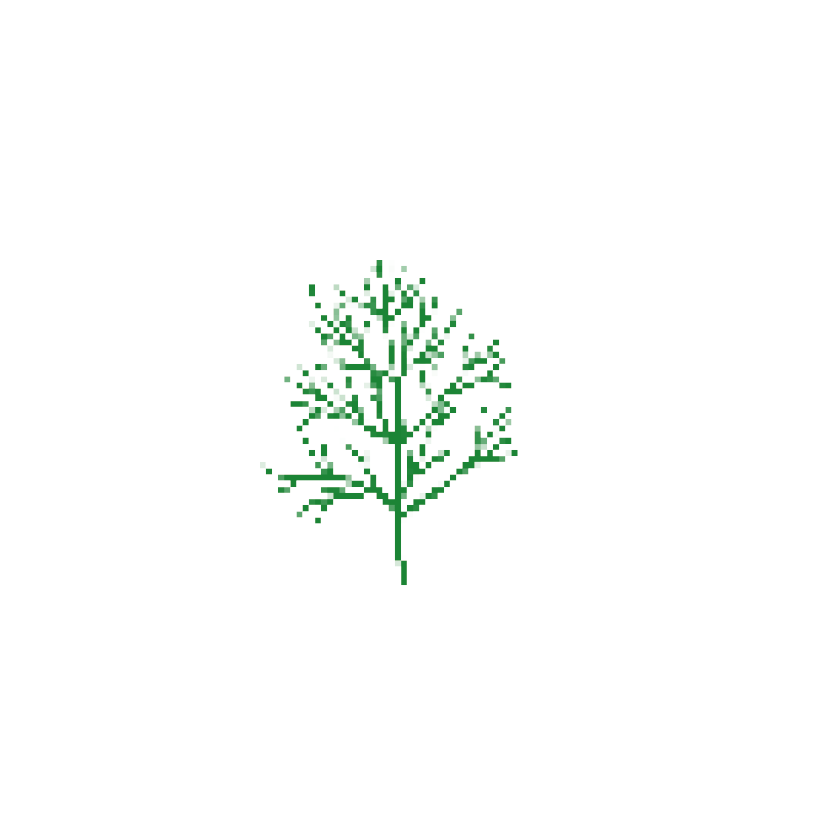
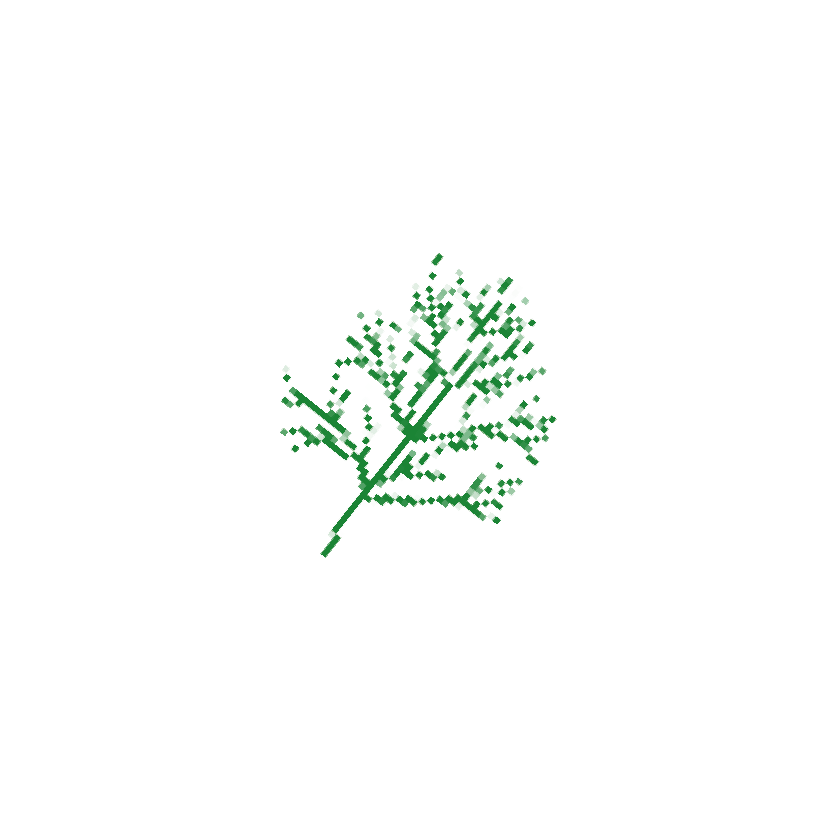
new layers pintxhos

Changed region(s): [[0.3118, 0.3118, 0.6859, 0.717]]

diff --git a/src/config.js b/src/config.js
@@ -5,9 +5,9 @@ const { NETWORK } = require(`${basePath}/constants/network.js`);
 const network = NETWORK.eth;
 
 // General metadata for Ethereum
-const namePrefix = "Edible NFTs Pintxo collection";
-const description = "First 375 Edible NFT Pintxo";
-const baseUri = "ipfs://NewUriToReplace";
+const namePrefix = "Crypto Pintxos Collection";
+const description = "First Edible NFT Pintxos";
+const baseUri = "ipfs://NewUriToReplace"; // "ipfs://NewUriToReplace"
 
 const solanaMetadata = {
   symbol: "YC",
@@ -24,13 +24,53 @@ const solanaMetadata = {
 // If you have selected Solana then the collection starts from 0 automatically
 const layerConfigurations = [
   {
-    growEditionSizeTo: 375,
+    growEditionSizeTo: 80,
+    layersOrder: [
+      { name: "Breads" },
+      { name: "Spreads" },
+      { name: "SaladLeaves" },
+      { name: "Eggs" },
+      { name: "Oil" },
+    ],
+  },
+  {
+    growEditionSizeTo: 160,
+    layersOrder: [
+      { name: "Breads" },
+      { name: "Spreads" },
+      { name: "CookedMeats" },
+      { name: "Pickles" },
+      { name: "Herbs" },
+    ],
+  },
+  {
+    growEditionSizeTo: 240,
     layersOrder: [
       { name: "Breads" },
       { name: "Tomato" },
-      { name: "Cooked vegetables" },
-      { name: "Eggs" },
-      { name: "Herbs" },
+      { name: "Cheeses" },
+      { name: "CookedMeats" },
+      { name: "Pickles" },
+    ],
+  },
+  {
+    growEditionSizeTo: 320,
+    layersOrder: [
+      { name: "Breads" },
+      { name: "Tomato" },
+      { name: "ColdCuts" },
+      { name: "SaladLeaves" },
+      { name: "NutsSeeds" },
+    ],
+  },
+  {
+    growEditionSizeTo: 400,
+    layersOrder: [
+      { name: "Breads" },
+      { name: "Spreads" },
+      { name: "ColdCuts" },
+      { name: "SaladLeaves" },      
+      { name: "Oil" },
     ],
   },
 ];
@@ -40,8 +80,8 @@ const shuffleLayerConfigurations = false;
 const debugLogs = false;
 
 const format = {
-  width: 512,
-  height: 512,
+  width: 834,
+  height: 834,
   smoothing: false,
 };
 
@@ -71,9 +111,20 @@ const pixelFormat = {
 
 const background = {
   generate: true,
-  brightness: "80%",
-  static: false,
-  default: "#000000",
+  brightness: "70%",
+  static: true,
+  default: [
+  "#83fec6",
+  "#83f8fe",
+  "#83b1fe",
+  "#98fe83",
+  "#83feb4",
+  "#83d1fe",
+  "#fe83aa",
+  "#cc83fe",  
+  "#fe83bb",        
+  "#83c9fe"
+  ],
 };
 
 const extraMetadata = {};

diff --git a/src/main.js b/src/main.js
@@ -110,18 +110,22 @@ const layersSetup = (layersOrder) => {
 const saveImage = (_editionCount) => {
   fs.writeFileSync(
     `${buildDir}/images/${_editionCount}.png`,
-    canvas.toBuffer("image/png")
+    canvas.toBuffer("image/png",{ compressionLevel: 3, filters: canvas.PNG_FILTER_NONE })
   );
 };
 
 const genColor = () => {
   let hue = Math.floor(Math.random() * 360);
   let pastel = `hsl(${hue}, 100%, ${background.brightness})`;
+
   return pastel;
 };
-
-const drawBackground = () => {
-  ctx.fillStyle = background.static ? background.default : genColor();
+const staticColor = () => {  
+  colIndex = Math.round(Math.random()*(background.default.length-1));
+  return background.default[colIndex];
+};
+  const drawBackground = () => {
+  ctx.fillStyle = background.static ? staticColor() : genColor();
   ctx.fillRect(0, 0, format.width, format.height);
 };
 
@@ -196,6 +200,7 @@ const addAttributes = (_element) => {
 
 const loadLayerImg = async (_layer) => {
   return new Promise(async (resolve) => {
+    console.log(_layer.selectedElement.path);
     const image = await loadImage(`${_layer.selectedElement.path}`);
     resolve({ layer: _layer, loadedImage: image });
   });
@@ -221,8 +226,8 @@ const drawElement = (_renderObject, _index, _layersLen) => {
       )
     : ctx.drawImage(
         _renderObject.loadedImage,
-        0, //Math.floor(Math.random() * 33),
-        0, //Math.floor(Math.random() * 33),
+        0,//Math.floor(Math.random() * 33),
+        0,//Math.floor(Math.random() * 33),
         format.width,
         format.height
       );
